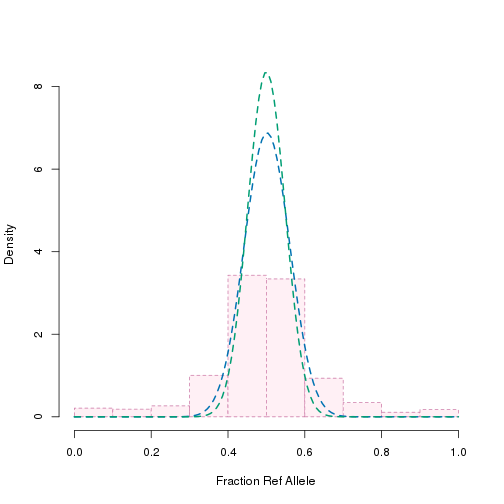
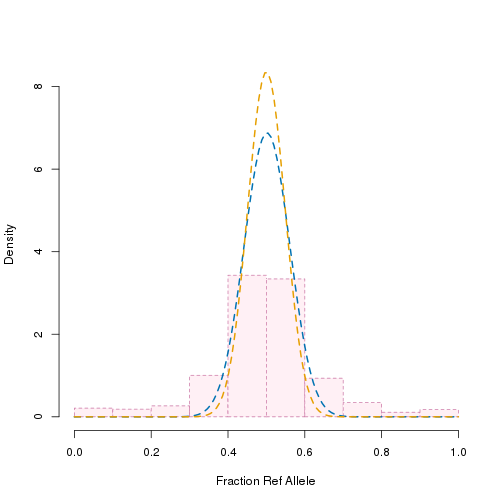
test

diff --git a/vignettes/npbin-atac.md b/vignettes/npbin-atac.md
@@ -20,11 +20,6 @@ package.
 ```r
 library(chenimbalance)
 library(npbin)
-#> 
-#> Attaching package: 'npbin'
-#> The following object is masked from 'package:chenimbalance':
-#> 
-#>     color_palette
 total_reads <- atac[["m"]]
 data <- data.frame(
   total = total_reads,
@@ -216,7 +211,7 @@ plot(
 ![plot of chunk atac_plot_space](figure/atac_plot_space-1.png)
 
 Compute the symmetric shape parameter and plot the estimated null beta (teal)
-superimposed with the null beta estimated from NPBin (blue).
+superimposed with the null beta estimated from NPBin (gold).
 
 
 ```r

diff --git a/vignettes/npbin-dnase.md b/vignettes/npbin-dnase.md
@@ -216,7 +216,7 @@ plot(
 ![plot of chunk dnase_plot_space](figure/dnase_plot_space-1.png)
 
 Compute the symmetric shape parameter and plot the estimated null beta (teal)
-superimposed with the null beta estimated from NPBin (blue).
+superimposed with the null beta estimated from NPBin (gold).
 
 
 ```r

diff --git a/vignettes/npbin-ctcf.md b/vignettes/npbin-ctcf.md
@@ -216,7 +216,7 @@ plot(
 ![plot of chunk ctcf_plot_space](figure/ctcf_plot_space-1.png)
 
 Compute the symmetric shape parameter and plot the estimated null beta (teal)
-superimposed with the null beta estimated from NPBin (blue).
+superimposed with the null beta estimated from NPBin (gold).
 
 
 ```r
